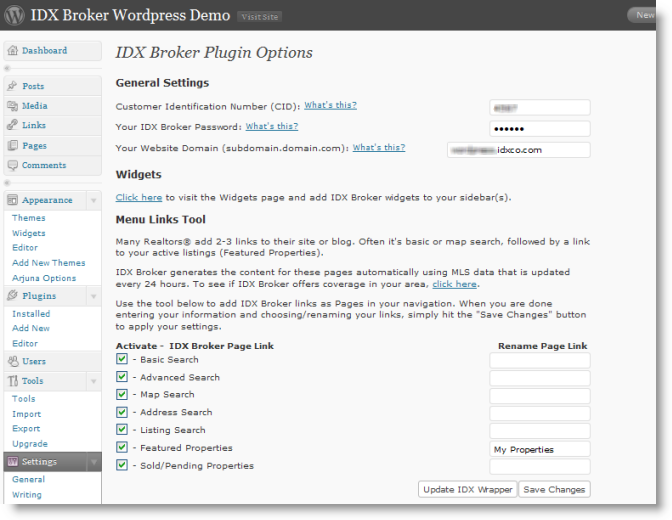
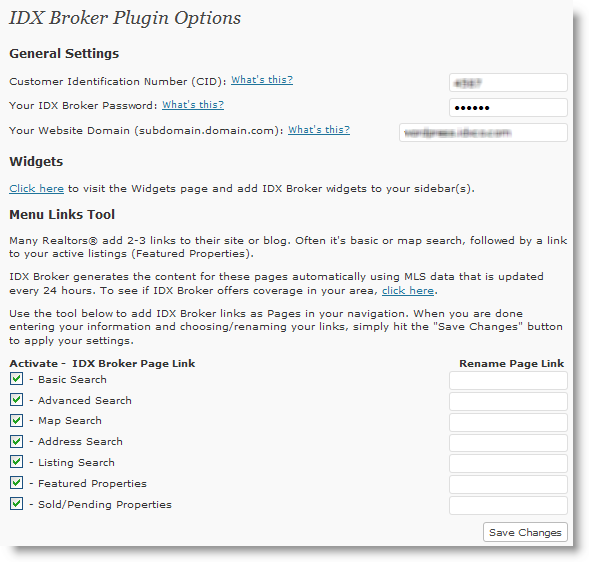
git-svn-id: https://plugins.svn.wordpress.org/idx-broker-wordpress-plugin/trunk@244104 b8457f37-d9ea-0310-8a92-e5e31aec5664

diff --git a/idxBroker.js b/idxBroker.js
@@ -1,10 +1,30 @@
 jQuery(document).ready(function(){
     
-    // when the save changes button is clicked
-    
+    // ajax loading gif
     var ajax_load = "<img src='/images/ajax-loader.gif' />";
+    
+    // path to the admin ajax file
     var ajaxPath = jQuery('#saveChanges').attr('ajax');
     
+    // url of the blog
+    var blogUrl = jQuery('#blogUrl').attr('ajax');
+    
+    // expand collapse the advanced section
+    
+    jQuery('.expand').attr({ title: "Click to Expand/Collapse" });
+    
+    jQuery('#advancedHead').click(function() {
+        jQuery(this).next().slideToggle('fast');
+        var content = jQuery(this).find('.expand').html();
+        if (content == '[+]') {
+            jQuery(this).find('.expand').html('[-]');
+        } else {
+            jQuery(this).find('.expand').html('[+]');
+        }
+    });
+    
+    // when the save changes button is clicked
+
     jQuery('#saveChanges').click(function(event){
 
         // prevent the default action as we need to save the links to the db first.
@@ -66,20 +86,27 @@ jQuery(document).ready(function(){
         );
     });
     
+    // fire the update wrapper function
+    
     jQuery('#updateWrapper').click(function(event){
         
         event.preventDefault();
-        var blogUrl = jQuery(this).attr('ajax');
+        var blogUrl = jQuery(this).attr('ajax') + '/';
         jQuery('#wrapperStatus').fadeIn('fast').html(ajax_load+'Updating Wrapper...');
-        
+
         jQuery.get(
             ajaxPath,
             {
-                "action": "idxUpdateWrapper"
+                "action": "idxUpdateWrapper",
+                "url": blogUrl
             },
             function(responseText){
-                jQuery('#wrapperStatus').html('Updated Wrapper...').fadeOut('slow');
-                jQuery('#updateWrapper').val('Wrapper Updated!');
+                
+                if(responseText != '0'){
+                    jQuery('#wrapperStatus').html('Verified!').css('color', 'green');
+                } else {
+                    jQuery('#wrapperStatus').html('!Error <a href="http://www.idxbroker.com/support/kb/questions/291/">How do I fix this?</a>').css('color', 'red');
+                }
             }
         );
     });

diff --git a/idx_broker.php b/idx_broker.php
@@ -9,7 +9,7 @@ Author URI: http://www.idxbroker.com
 License: GPL
 */
 
- ini_set('display_errors', 1);
+//ini_set('display_errors', 1);
 
 /* Runs when plugin is activated */
 register_activation_hook(__FILE__,'idx_broker_install'); 
@@ -886,14 +886,104 @@ function idxUpdateLinks() {
 
 add_action('wp_ajax_idxUpdateLinks', 'idxUpdateLinks' );
 
+
+/*
+*	We need to place a flag to let us know where to start the removal of the
+*	content area to replace with IDX content.  To do so we just echo an empty
+*	div that is set to display: none
+*/
+
+function idx_start () {
+	
+	return '<div id="idxStart" style="display: none;"></div>';
+
+}
+
+/*
+*	We need to place a flag to let us know where to end the removal of the
+*	content area to replace with IDX content.  To do so we just echo an empty
+*	div that is set to display: none
+*/
+
+function idx_stop () {
+	
+	return '<div id="idxStop" style="display: none;"></div>';
+
+}
+
+
 function idxUpdateWrapper () {
 	
-	$url = "http://www.idxbroker.com/wordpress/";
+	/*
+	*	Get the raw wrapper string
+	*/
+	
+	$wrapper = getWrapper($_GET['url']);
+	
+	/*
+	*	Parse the wrapper to find the header and footer strings
+	*/
+	
+	$header = parseWrapper($wrapper, 'header');
+	$footer = parseWrapper($wrapper, 'footer');
+	
+	/*
+	*	Set up our wrapper file paths and file names
+	*/
+	
+	$wrapperDir = '../wp-content/plugins/idx-broker-wordpress-plugin/wrapper';
+	$headerFile = $wrapperDir."/header.php";
+	$footerFile = $wrapperDir."/footer.php";
+	
+	/*
+	*	Save the header file
+	*/
+	
+	if(file_put_contents($headerFile, $header)) {
+		
+		/*
+		*	Save the footer file
+		*/
+		
+		if(file_put_contents($footerFile, $footer)) {
+			
+			die('1');
+			
+			/*
+			*	Couldn't save footer, die with false
+			*/
+			
+		} else {
+			
+			die('0');
+			
+		}
+		
+	/*
+	*	Couldn't save header, die with false
+	*/
+		
+	} else {
+		
+		die('0');
+		
+	}
+	
+}
+
+add_action('wp_ajax_idxUpdateWrapper', 'idxUpdateWrapper' );
+
+// curls the full index page code
+
+function getWrapper($url) {
+	
+	/*
+	*	cUrl the index page of the plog to get the raw html code
+	*/
 	
 	$curl_handle = curl_init();
     curl_setopt( $curl_handle, CURLOPT_USERAGENT, "Mozilla/5.0 (Windows; U; Windows NT 5.1; rv:1.7.3) Gecko/20041001 Firefox/0.10.1" );
     curl_setopt( $curl_handle, CURLOPT_URL, $url );
-    curl_setopt( $curl_handle, CURLOPT_FOLLOWLOCATION, true );
     curl_setopt( $curl_handle, CURLOPT_ENCODING, "" );
     curl_setopt( $curl_handle, CURLOPT_AUTOREFERER, true );
 	curl_setopt( $curl_handle, CURLOPT_RETURNTRANSFER, true );
@@ -901,23 +991,128 @@ function idxUpdateWrapper () {
 	$wrapper = curl_exec($curl_handle);
 	curl_close($curl_handle);
 	
-	$header = substr(strrev(stristr(strrev($wrapper), '>vid/<>";enon :yalpsid"=elyts "tratSxdi"=di vid<')), 0, -48); // 48 char
-	$footer = substr(stristr($wrapper, '<div id="idxStop" style="display: none;"></div>'), 47); //47 char
+	/*
+	*	check to see if our idx stop and stop functions are present, if so return
+	*	the raw wrapper, if not then return false
+	*/
+	
+	if (checkWrapper($wrapper)) {
+		return $wrapper;
+	} else {
+		return false;
+	}
+	
+}
+
+/*
+*	Takes full page code and parses out the header and footer code
+*/
+
+
+function parseWrapper($wrapper, $section) {
+	
+	if ($section == 'header') {
+		
+		/*
+		*	To parse out the string we have to get around earlier versions of php. First we reverse the
+		*	string and look for our reversed start flag.  Then we need to reverse the string back to normal
+		*	and cut out the actual flag from the code. Return the header.
+		*	
+		*/
+		
+		return substr(strrev(stristr(strrev($wrapper), '>vid/<>";enon :yalpsid"=elyts "tratSxdi"=di vid<')), 0, -48); // 48 char
+		
+	} else if ($section == 'footer') {
+		
+		/*
+		*	This is the same process as returning the header, except we dont need to reverse the string, as
+		*	our flag will be at the beginning of the code block. Return the footer.
+		*/
+		
+		return substr(stristr($wrapper, '<div id="idxStop" style="display: none;"></div>'), 47); //47 char
+		
+	} else {
+		
+		/*
+		*	If the required header/footer parameter is not provided then just die().
+		*/
+		
+		die();
+		
+	}
+	
+}
+
+/*
+*	Checks to see if wrapper has required stop and start function in place,
+*	if so return true, if not return false
+*/ 
+
+function checkWrapper($wrapper) {
+	
+	/*
+	*	Check to see if the start flag is present, if so move on
+	*/
+
+	if( stristr($wrapper, idx_start() )) {
+		
+		/*
+		*	Check to see if the stop flag is present, if so return true
+		*/
+		
+		if(stristr($wrapper, idx_stop() )) {
+			
+			return true;
+		
+		/*
+		*	Stop flag is not present, return false
+		*/
+		
+		} else {
+			
+			return false;
+		
+		}
+		
+	/*
+	*	Start flag is not present, return false
+	*/
+		
+	} else {
+		
+		return false;
+	
+	}
+	
+}
+
+function adminCheckWrapper() {
 	
 	$wrapperDir = '../wp-content/plugins/idx-broker-wordpress-plugin/wrapper';
 	$headerFile = $wrapperDir."/header.php";
 	$footerFile = $wrapperDir."/footer.php";
 	
-	chmod($wrapperDir, 0777);
-	
-	file_put_contents($headerFile, $header) or die("Could not save header...");
-	file_put_contents($footerFile, $footer) or die("Could not save footer...");
-	
-	die();
+	if(filesize($headerFile) > 0){
+		
+		if(filesize($footerFile) > 0){
+			
+			die('1');
+			
+		} else {
+			
+			die('0');
+			
+		}
+		
+	} else {
+		
+		die('0');
+		
+	}
 	
 }
 
-add_action('wp_ajax_idxUpdateWrapper', 'idxUpdateWrapper' );
+add_action('wp_ajax_adminCheckWrapper', 'adminCheckWrapper' );
 
 function errorCheck() {
 	
@@ -1127,14 +1322,5 @@ function idx_filter_links_to_pages ($link, $post) {
 }
 
 add_filter( 'page_link', 'idx_filter_links_to_pages', 20, 2 );
-
-
-function idx_start () {
-	 echo '<div id="idxStart" style="display: none;"></div>';
-}
-
-function idx_stop () {
-	echo '<div id="idxStop" style="display: none;"></div>';
-}
 
 ?>

diff --git a/idx_broker_admin.php b/idx_broker_admin.php
@@ -10,6 +10,7 @@ function idx_broker_admin_page() {
 	<h3>General Settings</h3>
 	
 	<form method="post" action="options.php" id="idxOptions">
+		<div id="blogUrl" style="display: none;" ajax="<?php bloginfo('wpurl'); ?>"></div>
 		<?php wp_nonce_field('update-options'); ?>
 		<ul>
 			<li style="height: 25px;">
@@ -99,22 +100,31 @@ function idx_broker_admin_page() {
 		</p>
 	</form>
 	
-	<p>
-		If you have made changes to the appearance of your theme, widget settings, or other design changes you will need to update the wrapper files that the IDX Broker server will use to match your design.  Simply click the 'Update IDX Wrapper' button below and the files will be updated for you.
-	</p>
-	<span style="float: left; color:#21759B; font-weight: bold; " id="wrapperStatus"></span>
-	<input id="updateWrapper" type="submit" style='float: right;' value='<?php _e('Update IDX Wrapper') ?>' ajax="<?php bloginfo('wpurl'); ?>" />
-	<div style="clear:both;"></div>
-	<p>
-		Here are the include paths to your IDX Wrappers for the IDX System:
-	</p>
-	<div>
-		<p style="font-weight: bold;">Header File:</p>
-		<?php bloginfo('wpurl'); ?>/wp-content/plugins/idx-broker-wordpress-plugin/wrapper/header.php
+	<div id="advancedHead" style="cursor: pointer;">
+		<span class="expand">[+] </span> Advanced
 	</div>
-	<div>
-		<p style="font-weight: bold;">Footer File:</p>
-		<?php bloginfo('wpurl'); ?>/wp-content/plugins/idx-broker-wordpress-plugin/wrapper/footer.php
+	
+	<div id="advanced" style="display: none; padding-bottom: 15px;">
+		<p>
+			For Advanced Users Only: This section provides you with the tools necessary to synchronize your IDX pages with changes made to your theme. Read <a href="http://www.idxbroker.com/support/kb/questions/288/">this article</a> for detailed instructions.
+		</p>
+		
+		<div id="id">
+			Step 1: <input id="updateWrapper" type="submit" style=''value='<?php _e('Update IDX Wrapper') ?>' ajax="<?php bloginfo('wpurl'); ?>" /><span style="color:#21759B; font-weight: bold;" id="wrapperStatus"></span>
+		</div>
+		
+		<div id="id">
+			Step 2: Copy and paste the Header and Footer URLs below into your IDX&nbsp;Broker Global HTML Wrapper. <a href="http://www.idxbroker.com/support/kb/questions/290/">How do I do this?</a>
+			<div>
+				<p style="font-weight: bold;">Header File:</p>
+				<?php bloginfo('wpurl'); ?>/wp-content/plugins/idx-broker-wordpress-plugin/wrapper/header.php
+			</div>
+			<div>
+				<p style="font-weight: bold;">Footer File:</p>
+				<?php bloginfo('wpurl'); ?>/wp-content/plugins/idx-broker-wordpress-plugin/wrapper/footer.php
+			</div>	
+		</div>
+
 	</div>
 	
 </div>
